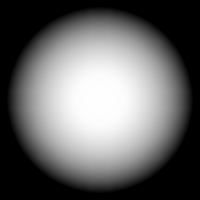
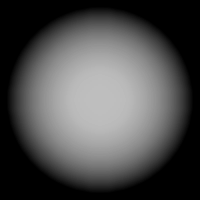
Sun improved.

diff --git a/src/Character.py b/src/Character.py
@@ -10,7 +10,7 @@ class Character:
 	SLASH = pygame.K_SPACE
 	REBUKE = pygame.K_e
 	
-	def __init__(self, (x, y) = (0, 0), image = '../characters/ordan.png', movement_range = 25):
+	def __init__(self, (x, y)=(0, 0), image='../characters/ordan.png', movement_range=25):
 		# essential
 		self.setPosition((x, y))
 		self.initial_position = (x, y)
@@ -30,7 +30,7 @@ class Character:
 		# sprites controller
 		self.interval = 100
 		self.cycletime = 0
-		self.picnr = [3, 0] # picture on right
+		self.picnr = [3, 0]  # picture on right
 		self.lenPic = 9
 		self.squirt_time = 0
 		# movement controller
@@ -47,7 +47,7 @@ class Character:
 		self.furtive = False
 		# death
 		self.death = pygame.time.get_ticks()
-		self.death_interval = 7000 # 7 seconds
+		self.death_interval = 7000  # 7 seconds
 		
 		# bot
 		self.movement_range = movement_range
@@ -101,13 +101,13 @@ class Character:
 		for x in range(4):
 			sprites.append([])
 			for y in range(6):
-				sprites[x+4].append((spritesheet.subsurface((y * 64, (x + 12) * 64, 64, 64))))
+				sprites[x + 4].append((spritesheet.subsurface((y * 64, (x + 12) * 64, 64, 64))))
 		
 		# rebuke
 		for x in range(4):
 			sprites.append([])
 			for y in range(7):
-				sprites[x+8].append((spritesheet.subsurface((y * 64, x * 64, 64, 64))))
+				sprites[x + 8].append((spritesheet.subsurface((y * 64, x * 64, 64, 64))))
 		
 		# dying
 		sprites.append([])
@@ -186,7 +186,31 @@ class Character:
 				self.downRight()
 			else:
 				self.stopped()
-		self.updateDeath()
+	
+	def doAMovement(self, (x1, y1)):
+		x, y = self.getPosition()
+
+		if (x1 > x):
+			if (y1 > y):
+				self.downRight()
+			elif (y1 < y):
+				self.upRight()
+			else:
+				self.right()
+
+		elif (x1 < x):
+			if (y1 > y):
+				self.downLeft()
+			elif (y1 < y):
+				self.upLeft()
+			else:
+				self.left()
+
+		else:
+			if (y1 > y):
+				self.down()
+			elif (y1 < y):
+				self.up()
 	
 	def up(self):
 		if self.attack_key == Character.NO_ATTACK and self.life != 0:
@@ -199,7 +223,7 @@ class Character:
 		if self.attack_key == Character.NO_ATTACK and self.life != 0:
 			self.side = 'left'
 			self.movement = True
-			position = Person.Person.changePersonLocation(self, self.x - self.px, self.y )
+			position = Person.Person.changePersonLocation(self, self.x - self.px, self.y)
 			self.setPosition(position)
 	
 	def down(self):
@@ -213,7 +237,7 @@ class Character:
 		if self.attack_key == Character.NO_ATTACK and self.life != 0:
 			self.side = 'right'
 			self.movement = True
-			position = Person.Person.changePersonLocation(self, self.x  + self.px , self.y);
+			position = Person.Person.changePersonLocation(self, self.x + self.px , self.y);
 			self.setPosition(position)
 	
 	def upLeft(self):
@@ -266,9 +290,9 @@ class Character:
 				self.picnr = [0, 0]
 			elif self.side == 'left':  # left
 				self.picnr = [1, 0]
-			elif self.side == 'down': # down
+			elif self.side == 'down':  # down
 				self.picnr = [2, 0]
-			elif self.side == 'right':   # right
+			elif self.side == 'right':  # right
 				self.picnr = [3, 0]
 			self.attack_keys[self.attack_key] = False
 			self.lenPic = 9
@@ -358,44 +382,19 @@ class Character:
 			self.fast = False
 			self.px = 1
 	
-	def updateDeath(self):
-		time = pygame.time.get_ticks()
-		if time - self.death >= self.death_interval:
-			self.life -= self.stranger
-			if self.life < 0:
-				self.life = 0
-			self.death = time
-		elif time - self.death >= (self.death_interval / 5):
-			if self.fast:
-				self.life -= 1
-			if self.life < 0:
-				self.life = 0
+	def updateDeath(self, period):
+		if period == "morning":
+			time = pygame.time.get_ticks()
+			if time - self.death >= self.death_interval:
+				self.life -= self.stranger
+				if self.life < 0:
+					self.life = 0
 				self.death = time
-		
-	def doAMovement(self, (x1, y1)):
-		x, y = self.getPosition()
-
-		if (x1 > x):
-			if (y1 > y):
-				self.downRight()
-			elif (y1 < y):
-				self.upRight()
-			else:
-				self.right()
-
-		elif (x1 < x):
-			if (y1 > y):
-				self.downLeft()
-			elif (y1 < y):
-				self.upLeft()
-			else:
-				self.left()
-
-		else:
-			if (y1 > y):
-				self.down()
-			elif (y1 < y):
-				self.up()
-
+			elif time - self.death >= (self.death_interval / 5):
+				if self.fast:
+					self.life -= 1
+				if self.life < 0:
+					self.life = 0
+					self.death = time
 	
 	

diff --git a/src/Screen.py b/src/Screen.py
@@ -40,6 +40,12 @@ class Screen:
         self.surf_lighting = pygame.Surface((screen_width, screen_height))
         self.shad = shadow.Shadow()
         self.surf_falloff = pygame.image.load("../characters/light_falloff100.png").convert()
+        radius = 208
+        self.shad.set_radius(radius)
+        self.surf_falloff = pygame.transform.scale(self.surf_falloff, (radius * 2, radius * 2))
+        self.surf_falloff.convert()
+        self.mask = self.shad.get_mask()
+        self.mask.blit(self.surf_falloff, (0, 0), special_flags=pygame.BLEND_MULT)
         
         # textbox
         self.txt = TextBox.TextBox(screen_width, screen_height)
@@ -52,7 +58,7 @@ class Screen:
         self.renderPersonsToScreen(master)
         self.renderTilesToScreen(master)
         self.renderPersonsAfter(master)
-        self.blitShadow(master, sun)
+        self.blitShadow(sun)
         self.txt.drawTextBox()
         self.life.blitLifeBar(master.life)
         pygame.display.flip()
@@ -124,17 +130,11 @@ class Screen:
             if img_squirt != None:
                 self.screen.blit(img_squirt, (x + 8, y + 8))
     
-    def blitShadow(self, master, sun):
+    def blitShadow(self, sun):
         self.surf_lighting.fill(sun.getColor())
-        if not master.furtive:
-            radius = sun.getRadius()
-            self.shad.set_radius(radius)
-            falloff = pygame.transform.scale(self.surf_falloff, (radius * 2, radius * 2))
-            falloff.convert()
-            mask = self.shad.get_mask()
-            mask.blit(falloff, (0, 0), special_flags=pygame.BLEND_MULT)
+        if sun.gray < 160:
             pos = self.shad.get_center_position(self.screen_width / 2, self.screen_height / 2 - 16)
-            self.surf_lighting.blit(mask, pos, special_flags=pygame.BLEND_MAX)
+            self.surf_lighting.blit(self.mask, pos, special_flags=pygame.BLEND_MAX)
         self.screen.blit(self.surf_lighting, (0, 0), special_flags=pygame.BLEND_MULT)
     
     def renderTilesToScreen(self, master):

diff --git a/src/Sun.py b/src/Sun.py
@@ -5,13 +5,14 @@ class Sun:
     
     # 2,5 minutes = 150000
     PERIOD = 15000
+    MAX = 256
+    MIN = 80
 
     def __init__(self):
-        self.color = (240, 240, 240)
+        self.color = (Sun.MIN, Sun.MIN, Sun.MIN)
         self.time = 0
-        self.gray = 240
-        self.sum = -16
-        self.radius = 80
+        self.gray = Sun.MIN
+        self.sum = 16
     
     def getColor(self):
         time = pygame.time.get_ticks()
@@ -22,17 +23,19 @@ class Sun:
     
     def nextColor(self):
         self.gray += self.sum
-        self.radius -= self.sum / 2
-        if self.gray == -16:
-            self.gray = 0
-            self.radius = 208
+        if self.gray == Sun.MIN - abs(self.sum):
+            self.gray = Sun.MIN
             self.sum = 16
-        if self.gray == 256:
-            self.gray = 240
-            self.radius = 80
+        if self.gray == Sun.MAX + abs(self.sum):
+            self.gray = Sun.MAX
             self.sum = -16
+        if self.gray == Sun.MAX:
+            return (255, 255, 255)
         return (self.gray, self.gray, self.gray)
     
-    def getRadius(self):
-        return self.radius
+    def getPeriod(self):
+        if self.gray < 192:
+            return 'afternoon'
+        else:
+            return 'morning'
     

diff --git a/src/Game.py b/src/Game.py
@@ -1,15 +1,13 @@
 
-import pygame, time
+import pygame
 import Screen
 import Person
 import Sun
 import Bot
-import TextBox
 import Sound
 import ClientSocket
 import PathFind
 from collections import deque
-import gtk
 import sys
 
 class Game:
@@ -90,12 +88,14 @@ class Game:
                 pygame.display.set_caption('%d %d - Sun Is Coming - Master(%d)' %(self.p.x, self.p.y, self.p.life))
                 self.screen.draw(self.p, self.sun)
                 self.doEvent()
+                self.p.updateDeath(self.sun.getPeriod())
 
                 if (len(self.path_deque)):
                     x1, y1 = self.path_deque.popleft()
                     self.p.doAMovement((x1, y1))
                 else:
                     self.p.move(self.arrow)
+                
             else:
                 if died == False:
                     self.txt.updateReaderMessage(self.p.name + ' died!')
@@ -195,9 +195,6 @@ class Game:
                     
                     if e.key == pygame.K_LSHIFT:
                         self.p.updateSpeed(True)
-                        
-                        
-
                 
                 """
                 # resize screen: very very slow :(
